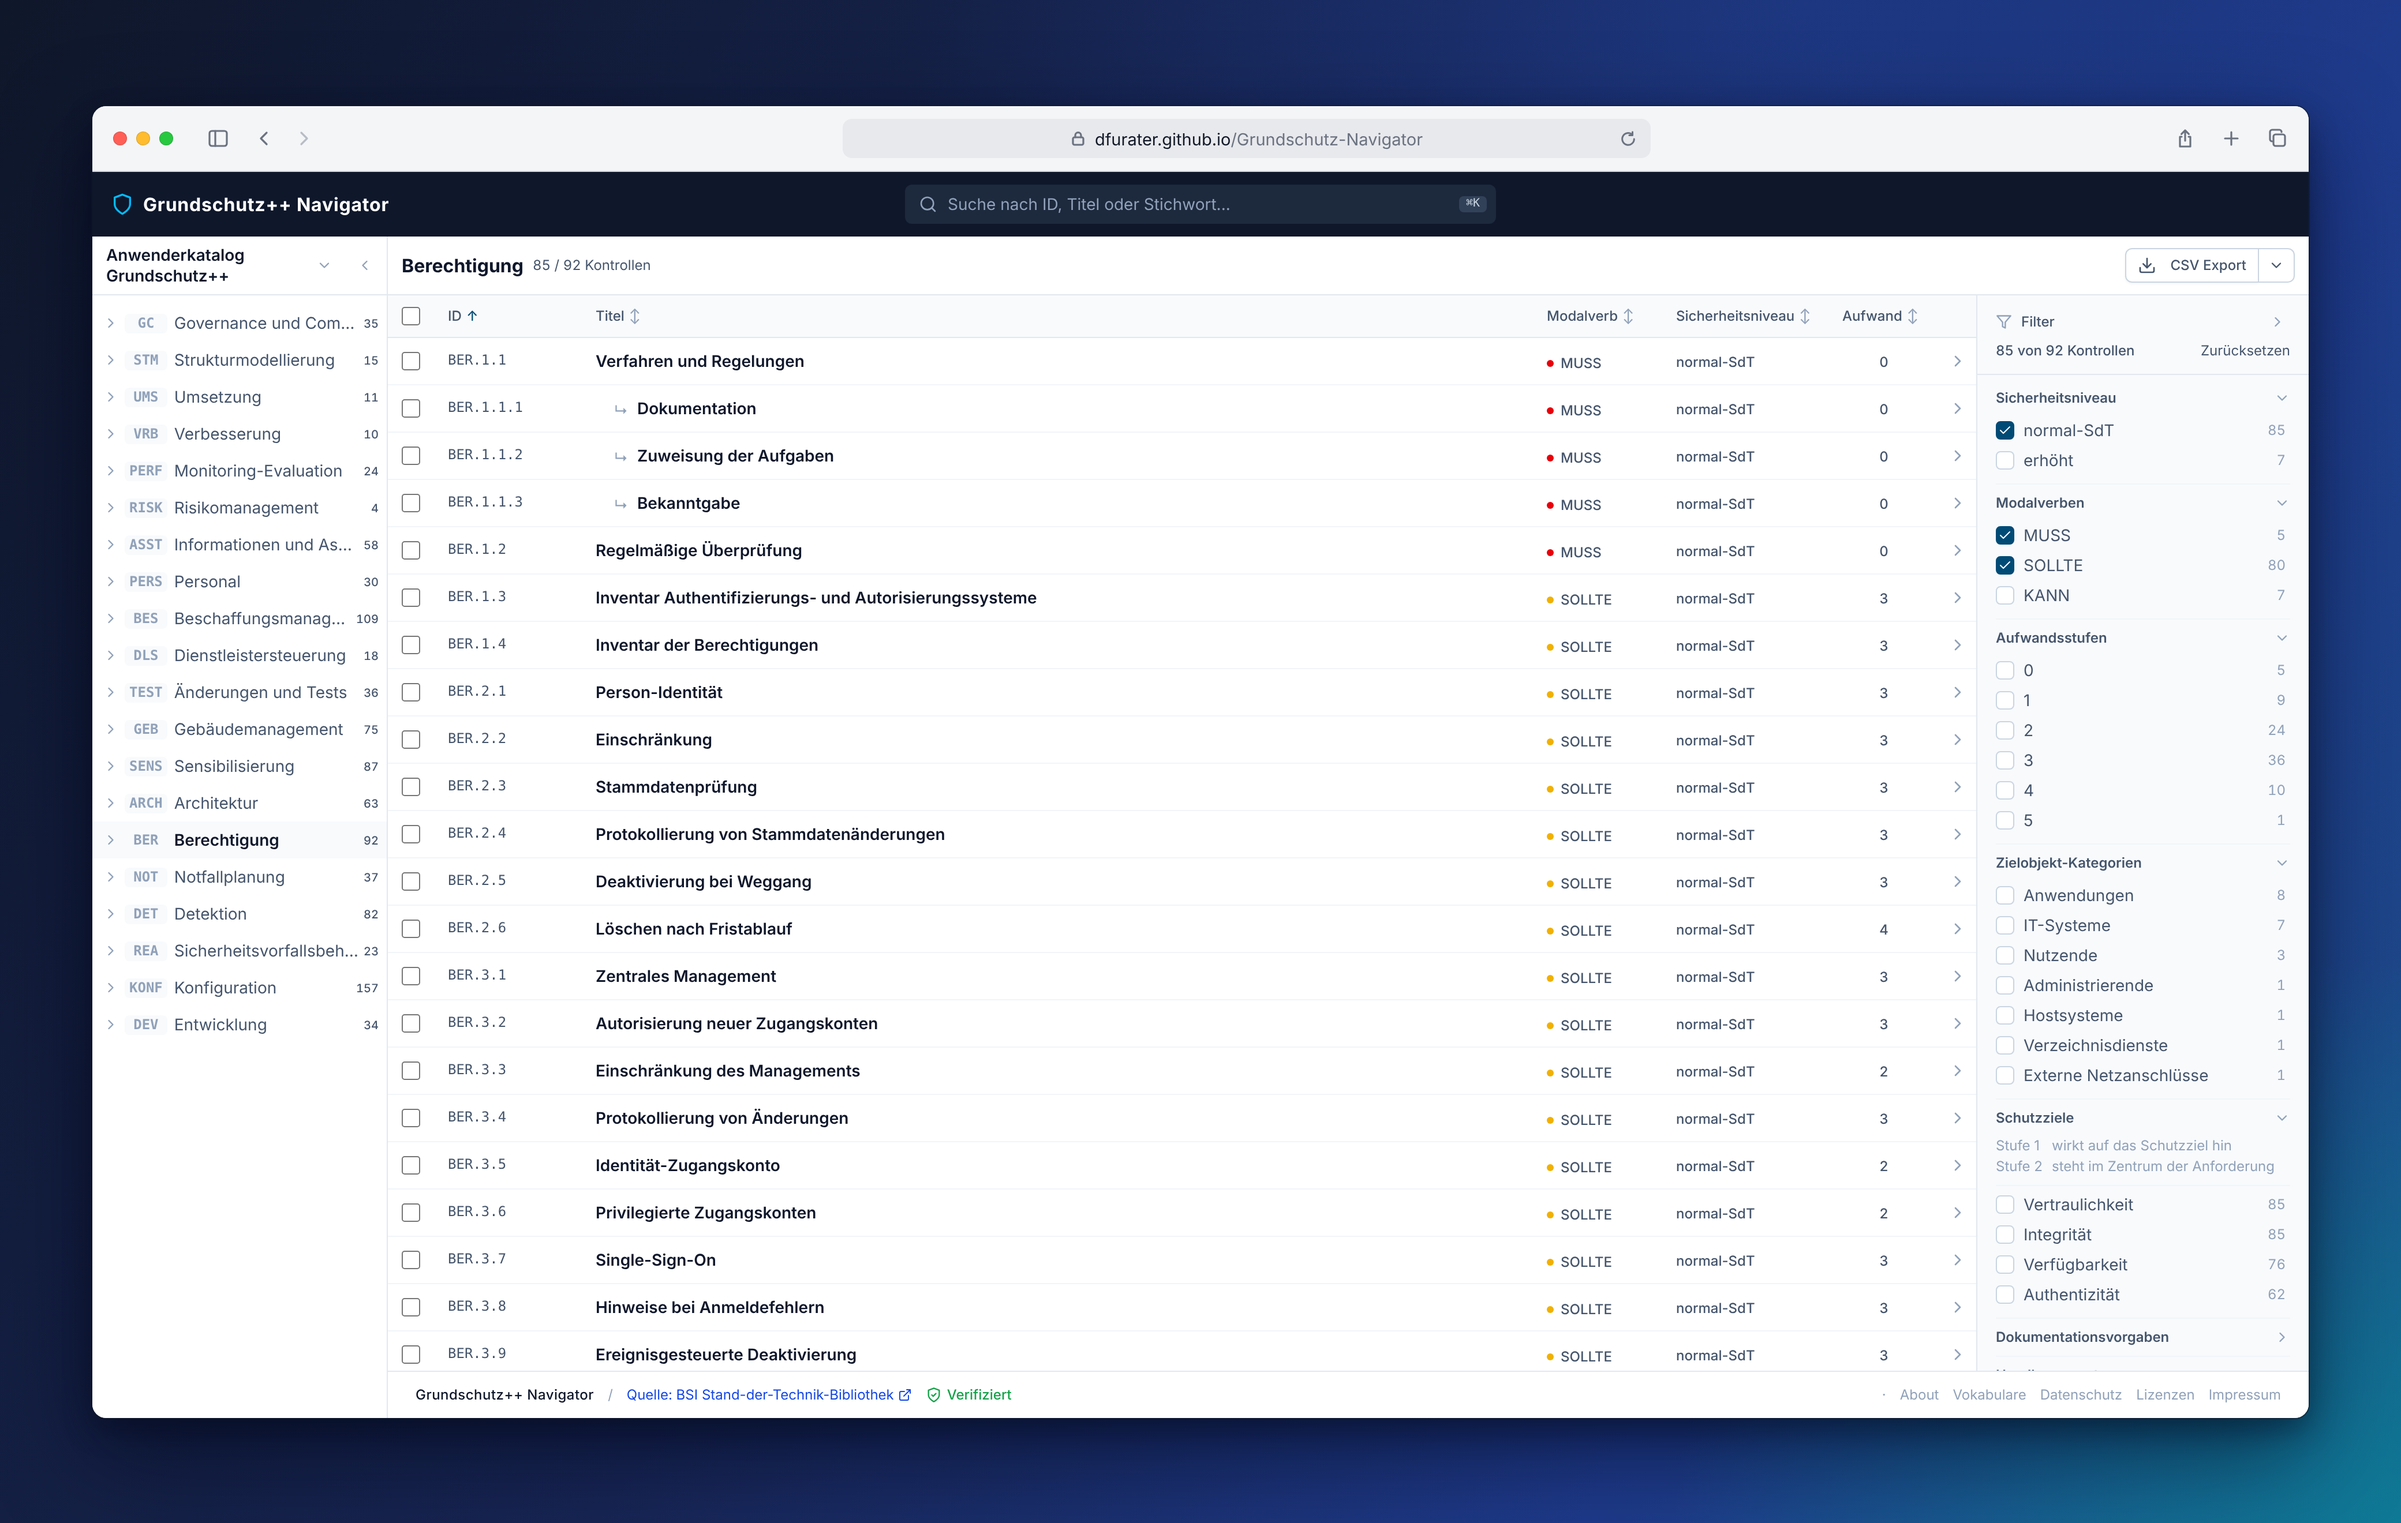
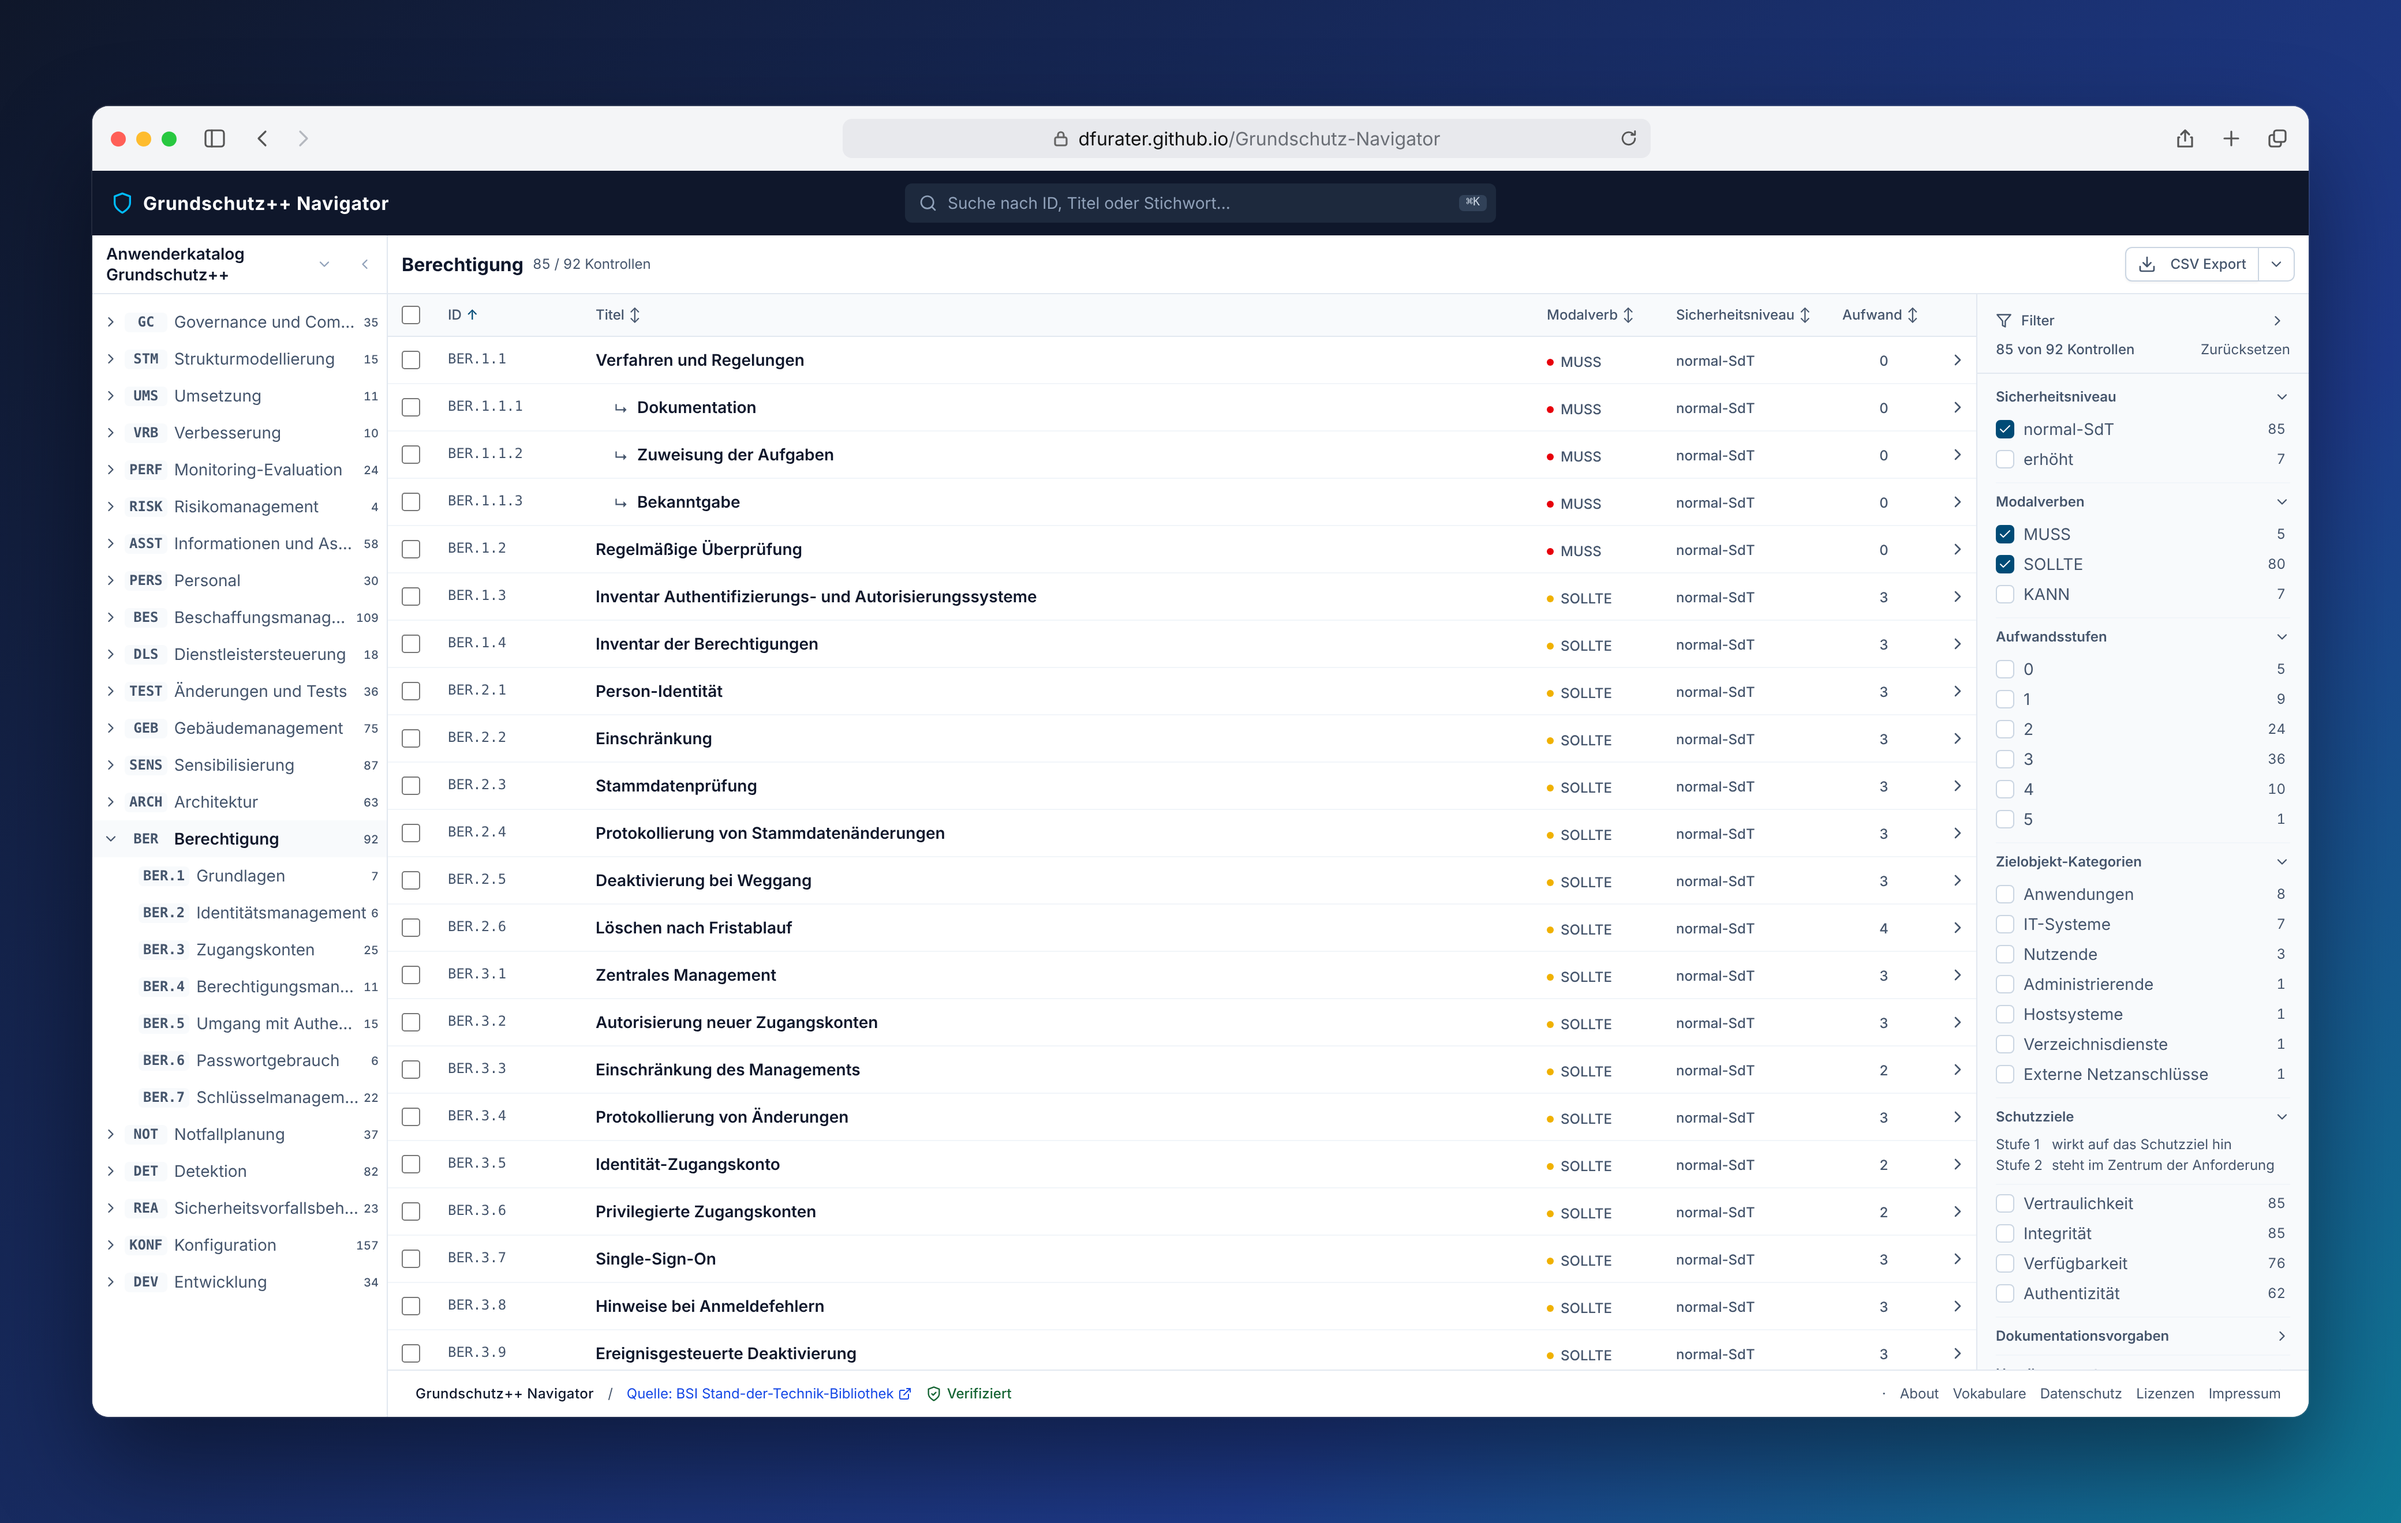
docs(readme): Aktualisiere den README-Screenshot auf die aktuelle UI (#412)

diff --git a/README.md b/README.md
@@ -6,7 +6,7 @@ Inoffizielles Community-Projekt, kein Angebot des BSI. Keine Rechtsberatung, kei
 
 **Live-Demo:** [dfurater.github.io/Grundschutz-Navigator](https://dfurater.github.io/Grundschutz-Navigator/)
 
-<img src="docs/assets/katalog-mit-filtern.png" width="1040" alt="Katalogansicht des Grundschutz++ Navigators: links der Katalog-Explorer mit der Katalogwahl „Anwenderkatalog Grundschutz++“ im Kopf und den Praktiken darunter, in der Mitte die Kontrollen der Praktik „Berechtigung“, rechts die Filterleiste mit ausgewähltem Sicherheitsniveau „normal-SdT“ und den Modalverben MUSS und SOLLTE">
+<img src="docs/assets/katalog-mit-filtern.png" width="1040" alt="Katalogansicht des Grundschutz++ Navigators: links der Katalog-Explorer mit der Katalogwahl „Anwenderkatalog Grundschutz++“ im Kopf und den Praktiken darunter, die geöffnete Praktik „Berechtigung“ zeigt ihre Themen, in der Mitte die Kontrollen der Praktik „Berechtigung“, rechts die Filterleiste mit ausgewähltem Sicherheitsniveau „normal-SdT“ und den Modalverben MUSS und SOLLTE">
 
 [![Deploy](https://github.com/dfurater/Grundschutz-Navigator/actions/workflows/deploy.yml/badge.svg)](https://github.com/dfurater/Grundschutz-Navigator/actions/workflows/deploy.yml)
 [![App-Code: AGPL v3](https://img.shields.io/badge/App--Code-AGPL%20v3-green)](LICENSE)
